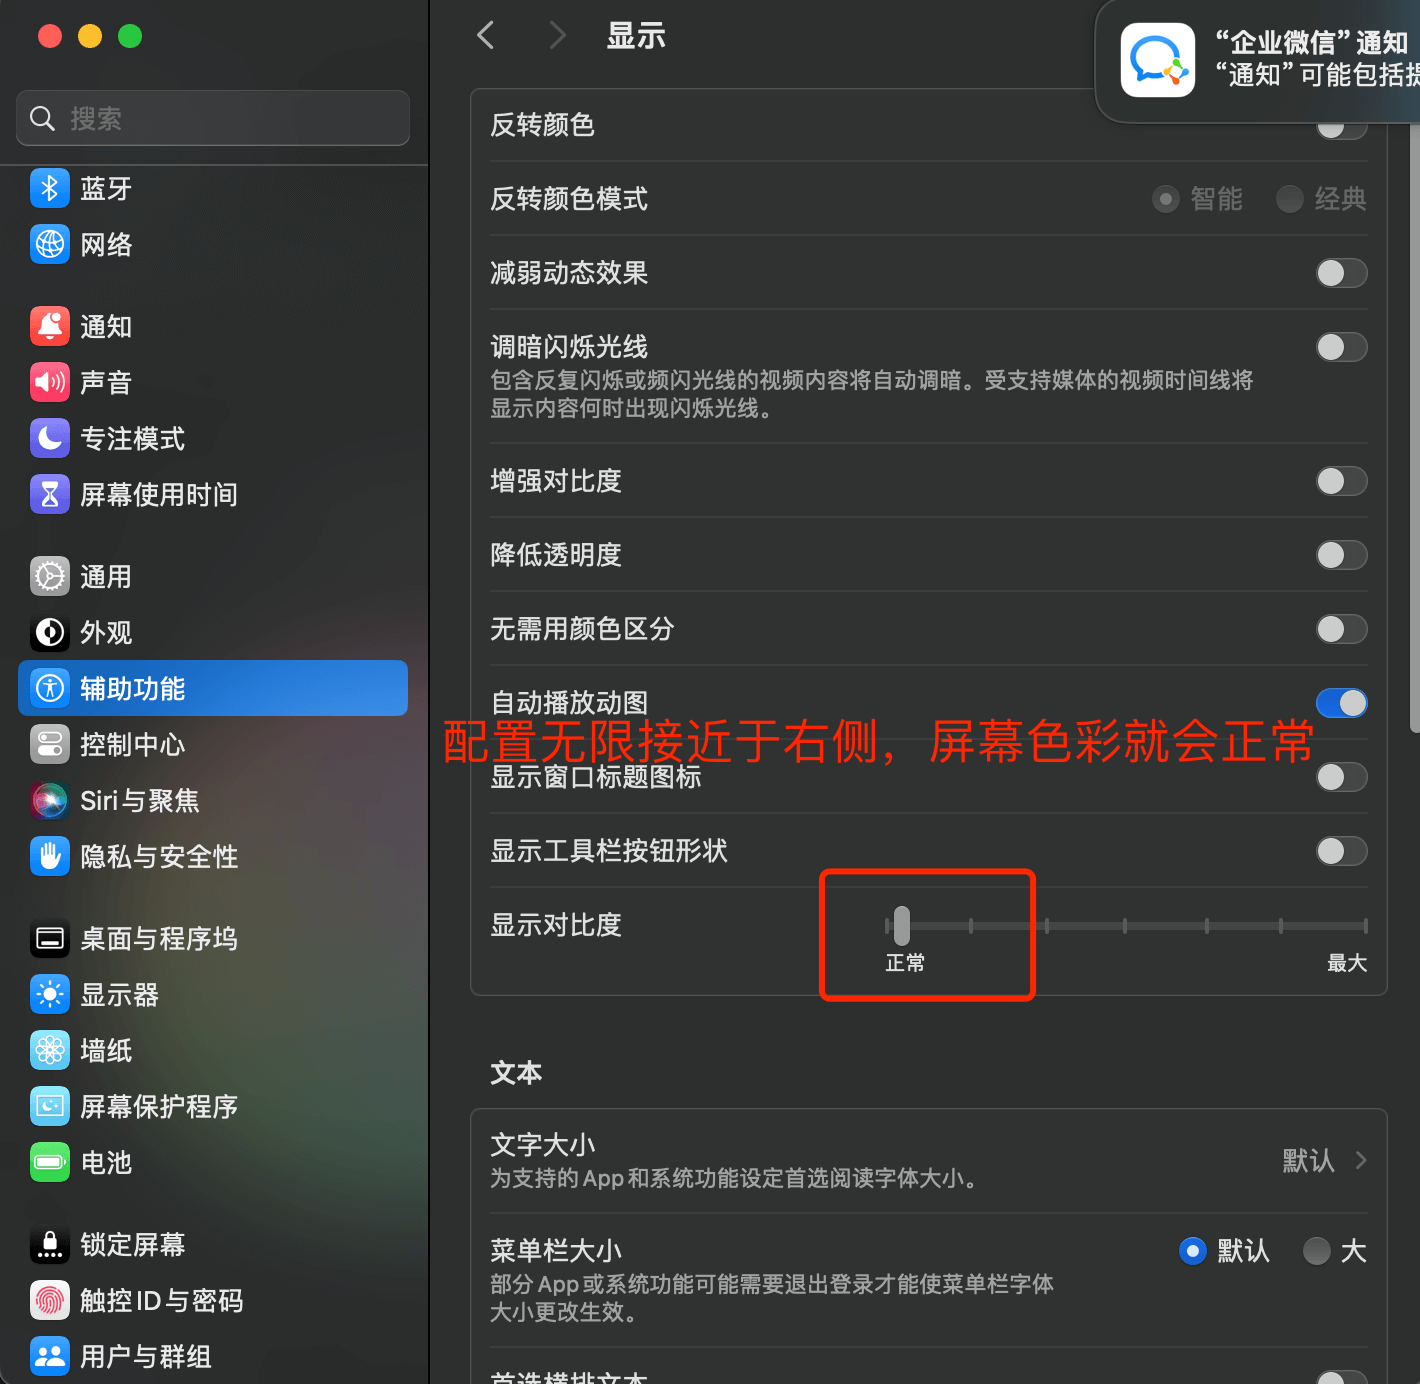
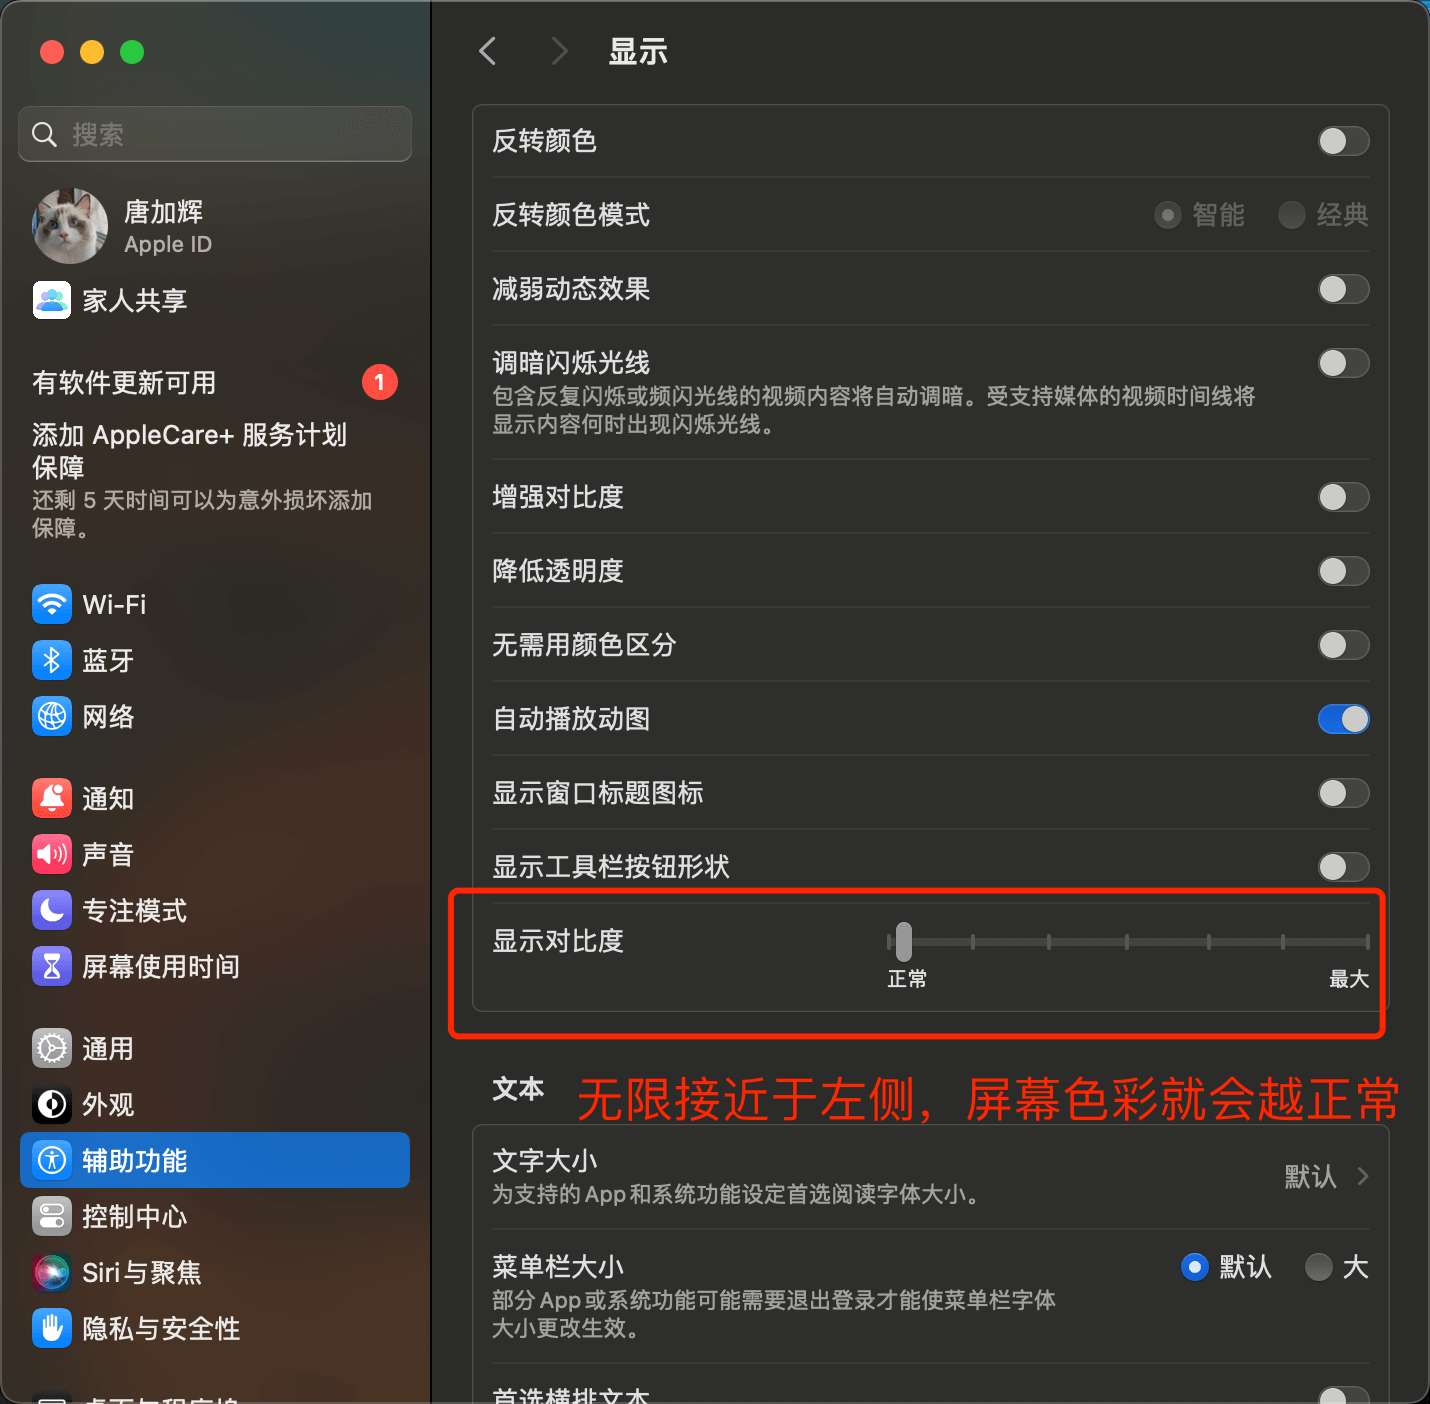
fix: 替换图片3

diff --git a/解决mbp16的miniled屏幕刺眼发黄问题/README.md b/解决mbp16的miniled屏幕刺眼发黄问题/README.md
@@ -22,7 +22,7 @@
 
 进入左侧菜单`辅助功能`，选中右侧`显示`，修改`显示对比度`进度条<br>
 
-> tips: 滑块越无限接近于右端，画面越明亮，黑色背景文字越清楚，看你喜欢哪种视觉了。
+> tips: 滑块越无限接近于左端，画面越明亮，黑色背景文字越清楚，看你喜欢哪种视觉了。
 
 （这一步，解决了屏幕整体色域颜色对比不明显的问题）
 
